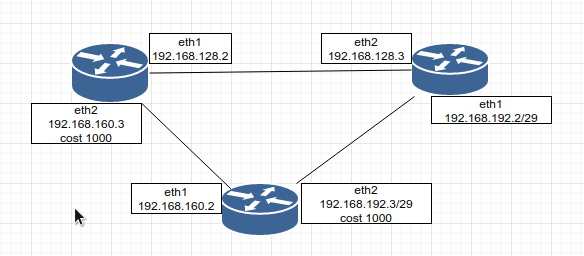
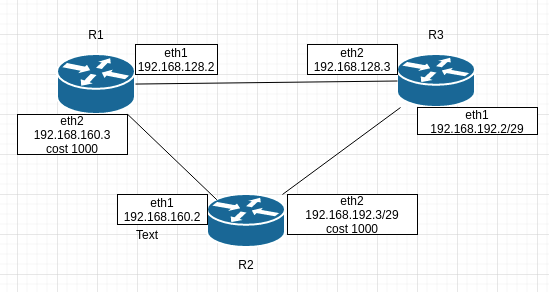
Подготовленно к сдаче на проверку

diff --git a/README.md b/README.md
@@ -17,9 +17,9 @@
 3. Для создания ассимитричного роутинга меняем стоимость маршрута на интерфейсах.
 
 
-Запуск отдельного playbook, для установки значений стоимости маршрута в ospf. Устанавливаем значение  "ip ospf cost 1000" в файле  ""/etc/frr/ospfd.conf" на роутерах R1 и R2 на интерфейсах eth2 (R1-eth2-192.168.160.3) (R2-eth2-192.168.192.3) .
+Запуск отдельного playbook, для установки значений стоимости маршрута в ospf. Устанавливаем значение  "ip ospf cost 1000" в файле  ""/etc/frr/ospfd.conf" на роутере R1  на интерфейсе eth2 (R1-eth2-192.168.160.3).
 
-![Ассиметричный роутинг](Images/OSPF_cost_1000.png)
+![Ассиметричный роутинг](Images/OSPF_cost_1000_assim.png)
 
       ansible-playbook ./ansible/playbooks/ospf_cost.yml  --limit R1_costs
 
@@ -28,7 +28,20 @@
       ansible-playbook ./ansible/playbooks/ospf_restore_cost.yml
 
 
-4. Изменим стоимость маршрута на двух интерфейсах, сделаем их одинаково дорогими. на роутерах R1 и R2 увеличим стоимость на одинаковое значение (1000), на интерфейсах eth2 (R1-eth2-192.168.160.3) (R2-eth2-192.168.192.3) .
+4. Изменим стоимость маршрута на двух интерфейсах, сделаем их одинаково дорогими. на роутерах R1 и R2 увеличим стоимость на одинаковое значение (1000), на интерфейсах eth2 (R1-eth2-192.168.160.3)  и eth1 (R2-eth1-192.168.160.2).
+
+
+![Симетричный роутинг](Images/OSPF_cost_1000_sim.png)
+
+
+    Запуск tcpdump показывает, что запросы и ответы идут через один интерфейс, тогда как при ассиметричном роутинге, будут идти через разные.    
+      >[root@R2 vagrant]# tcpdump -nnvvvttt -i eth2 -p icmp
+      dropped privs to tcpdump
+      tcpdump: listening on eth2, link-type EN10MB (Ethernet), capture size 262144 bytes
+       00:00:00.000000 IP (tos 0x0, ttl 63, id 29742, offset 0, flags [DF], proto ICMP (1), length 84)
+          192.168.128.2 > 192.168.192.3: ICMP echo request, id 3135, seq 12, length 64
+       00:00:00.000032 IP (tos 0x0, ttl 64, id 38186, offset 0, flags [none], proto ICMP (1), length 84)
+          192.168.192.3 > 192.168.128.2: ICMP echo reply, id 3135, seq 12, length 64
 
       ansible-playbook ./ansible/playbooks/ospf_cost.yml
 
